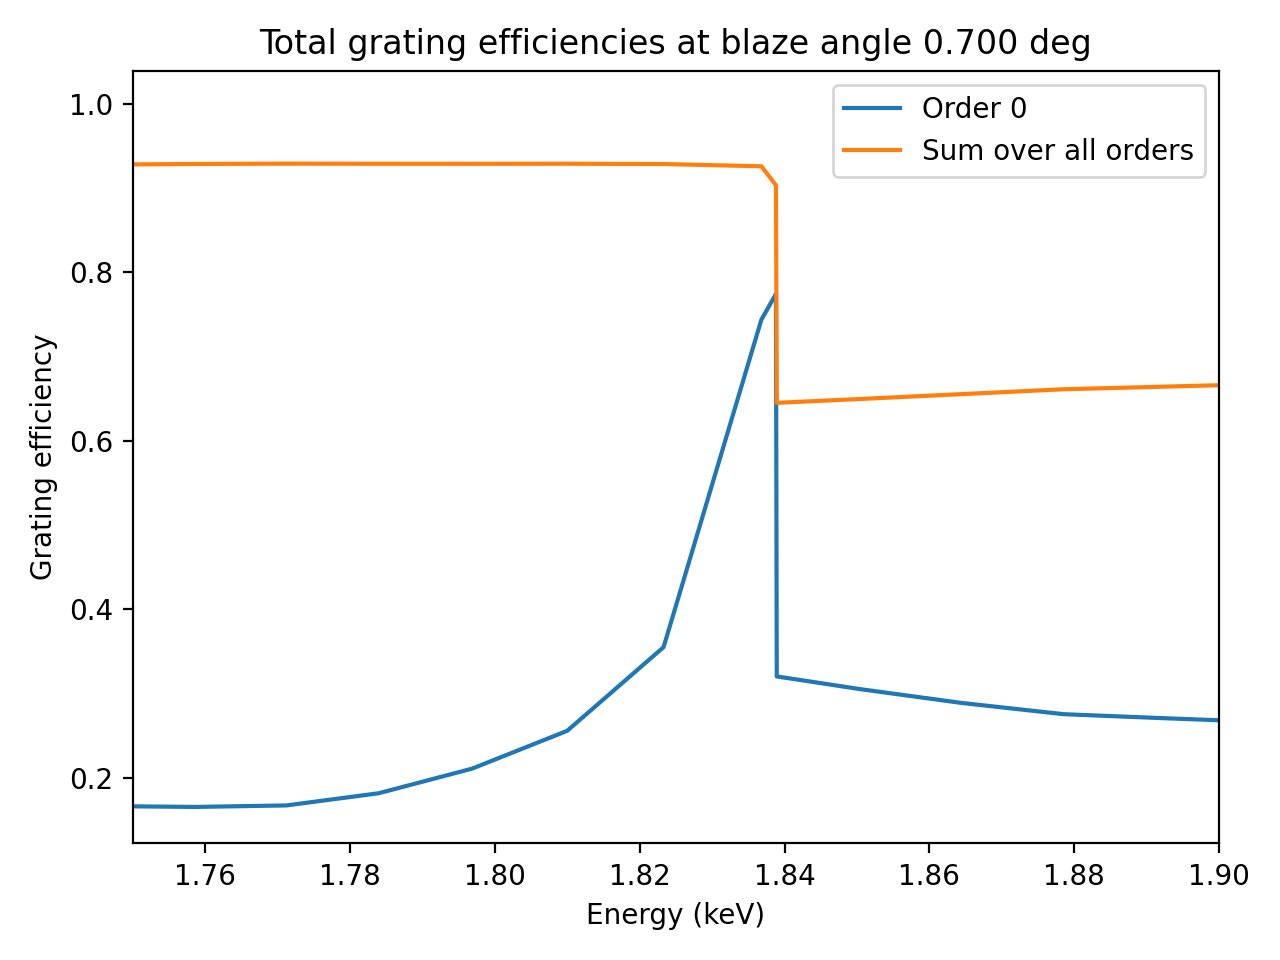
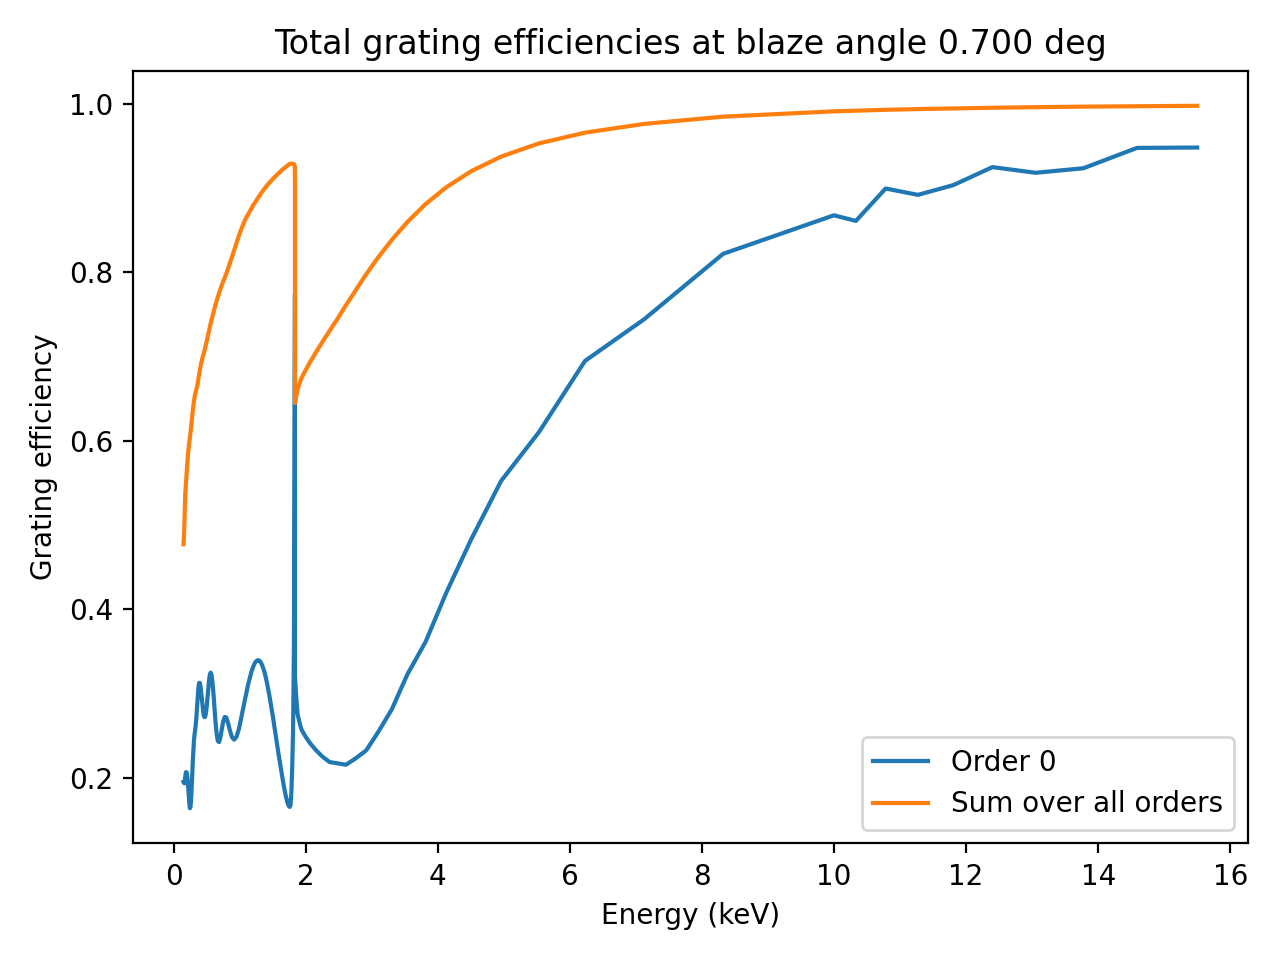
Graphed grating efficiencies across entire energy range

diff --git a/mdp_redsox.py b/mdp_redsox.py
@@ -844,70 +844,70 @@ def build_zeroth_order_effective_areas(data_dir: Path):
     iangle = int(np.argmin(np.abs(grat_theta - target_theta)))
     selected_theta = grat_theta[iangle]
 
-    # # plot grating efficiencies because something is wrong
-    # base_dir = Path(__file__).resolve().parent
-    # data_dir = base_dir / "data"
-    # output_dir = base_dir / "outputs"
+    # plot grating efficiencies because something is wrong
+    base_dir = Path(__file__).resolve().parent
+    data_dir = base_dir / "data"
+    output_dir = base_dir / "outputs"
 
-    # grat_energy = HC_KEV_ANG / grat_wave
-    # raw_eff0 = eff0[:, iangle]
+    grat_energy = HC_KEV_ANG / grat_wave
+    raw_eff0 = eff0[:, iangle]
 
-    # eorder_grat = np.argsort(grat_energy)
+    eorder_grat = np.argsort(grat_energy)
 
-    # print(f"Requested angle: {target_theta:.6f} deg")
-    # print(f"Selected angle:  {selected_theta:.6f} deg")
-    # print(f"Raw eff0 range:  {raw_eff0.min():.6e} to {raw_eff0.max():.6e}")
+    print(f"Requested angle: {target_theta:.6f} deg")
+    print(f"Selected angle:  {selected_theta:.6f} deg")
+    print(f"Raw eff0 range:  {raw_eff0.min():.6e} to {raw_eff0.max():.6e}")
 
-    # plt.figure()
-    # plt.plot(
-    #     grat_energy[eorder_grat],
-    #     raw_eff0[eorder_grat],
-    #     marker=".",
-    # )
+    plt.figure()
+    plt.plot(
+        grat_energy[eorder_grat],
+        raw_eff0[eorder_grat],
+        marker=".",
+    )
+    plt.xlim(1.75, 1.90)
+    plt.xlabel("Energy (keV)")
+    plt.ylabel("Zeroth-order grating efficiency")
+    plt.title(f"Zeroth-order grating efficiency at blaze angle {selected_theta:.3f} deg")
+    plt.tight_layout()
+    plt.savefig(
+        output_dir / "test_grating_eff0.png",
+        dpi=200,
+    )
+    plt.close()
+
+    total_grating_eff = np.zeros_like(grat_wave)
+
+    for diffraction_order, efficiency in grat_eff.items():
+        total_grating_eff += efficiency[:, iangle]
+
+    print(
+        "Summed-order efficiency range:",
+        total_grating_eff.min(),
+        total_grating_eff.max(),
+    )
+
+    plt.figure()
+    plt.plot(
+        grat_energy[eorder_grat],
+        raw_eff0[eorder_grat],
+        label="Order 0",
+    )
+    plt.plot(
+        grat_energy[eorder_grat],
+        total_grating_eff[eorder_grat],
+        label="Sum over all orders",
+    )
     # plt.xlim(1.75, 1.90)
-    # plt.xlabel("Energy (keV)")
-    # plt.ylabel("Zeroth-order grating efficiency")
-    # plt.title(f"Zeroth-order grating efficiency at blaze angle {selected_theta:.3f} deg")
-    # plt.tight_layout()
-    # plt.savefig(
-    #     output_dir / "test_grating_eff0.png",
-    #     dpi=200,
-    # )
-    # plt.close()
-
-    # total_grating_eff = np.zeros_like(grat_wave)
-
-    # for diffraction_order, efficiency in grat_eff.items():
-    #     total_grating_eff += efficiency[:, iangle]
-
-    # print(
-    #     "Summed-order efficiency range:",
-    #     total_grating_eff.min(),
-    #     total_grating_eff.max(),
-    # )
-
-    # plt.figure()
-    # plt.plot(
-    #     grat_energy[eorder_grat],
-    #     raw_eff0[eorder_grat],
-    #     label="Order 0",
-    # )
-    # plt.plot(
-    #     grat_energy[eorder_grat],
-    #     total_grating_eff[eorder_grat],
-    #     label="Sum over all orders",
-    # )
-    # plt.xlim(1.75, 1.90)
-    # plt.xlabel("Energy (keV)")
-    # plt.ylabel("Grating efficiency")
-    # plt.title(f"Total grating efficiencies at blaze angle {selected_theta:.3f} deg")
-    # plt.legend()
-    # plt.tight_layout()
-    # plt.savefig(
-    #     output_dir / "test_grating_efficiencies.png",
-    #     dpi=200,
-    # )
-    # plt.close()
+    plt.xlabel("Energy (keV)")
+    plt.ylabel("Grating efficiency")
+    plt.title(f"Total grating efficiencies at blaze angle {selected_theta:.3f} deg")
+    plt.legend()
+    plt.tight_layout()
+    plt.savefig(
+        output_dir / "test_grating_efficiencies.png",
+        dpi=200,
+    )
+    plt.close()
 
     # reevaluate zeroth-order grating efficiency on new wavelength grid wave0
     eff0_on0 = idl_interpol(eff0[:, iangle], grat_wave, wave0)
